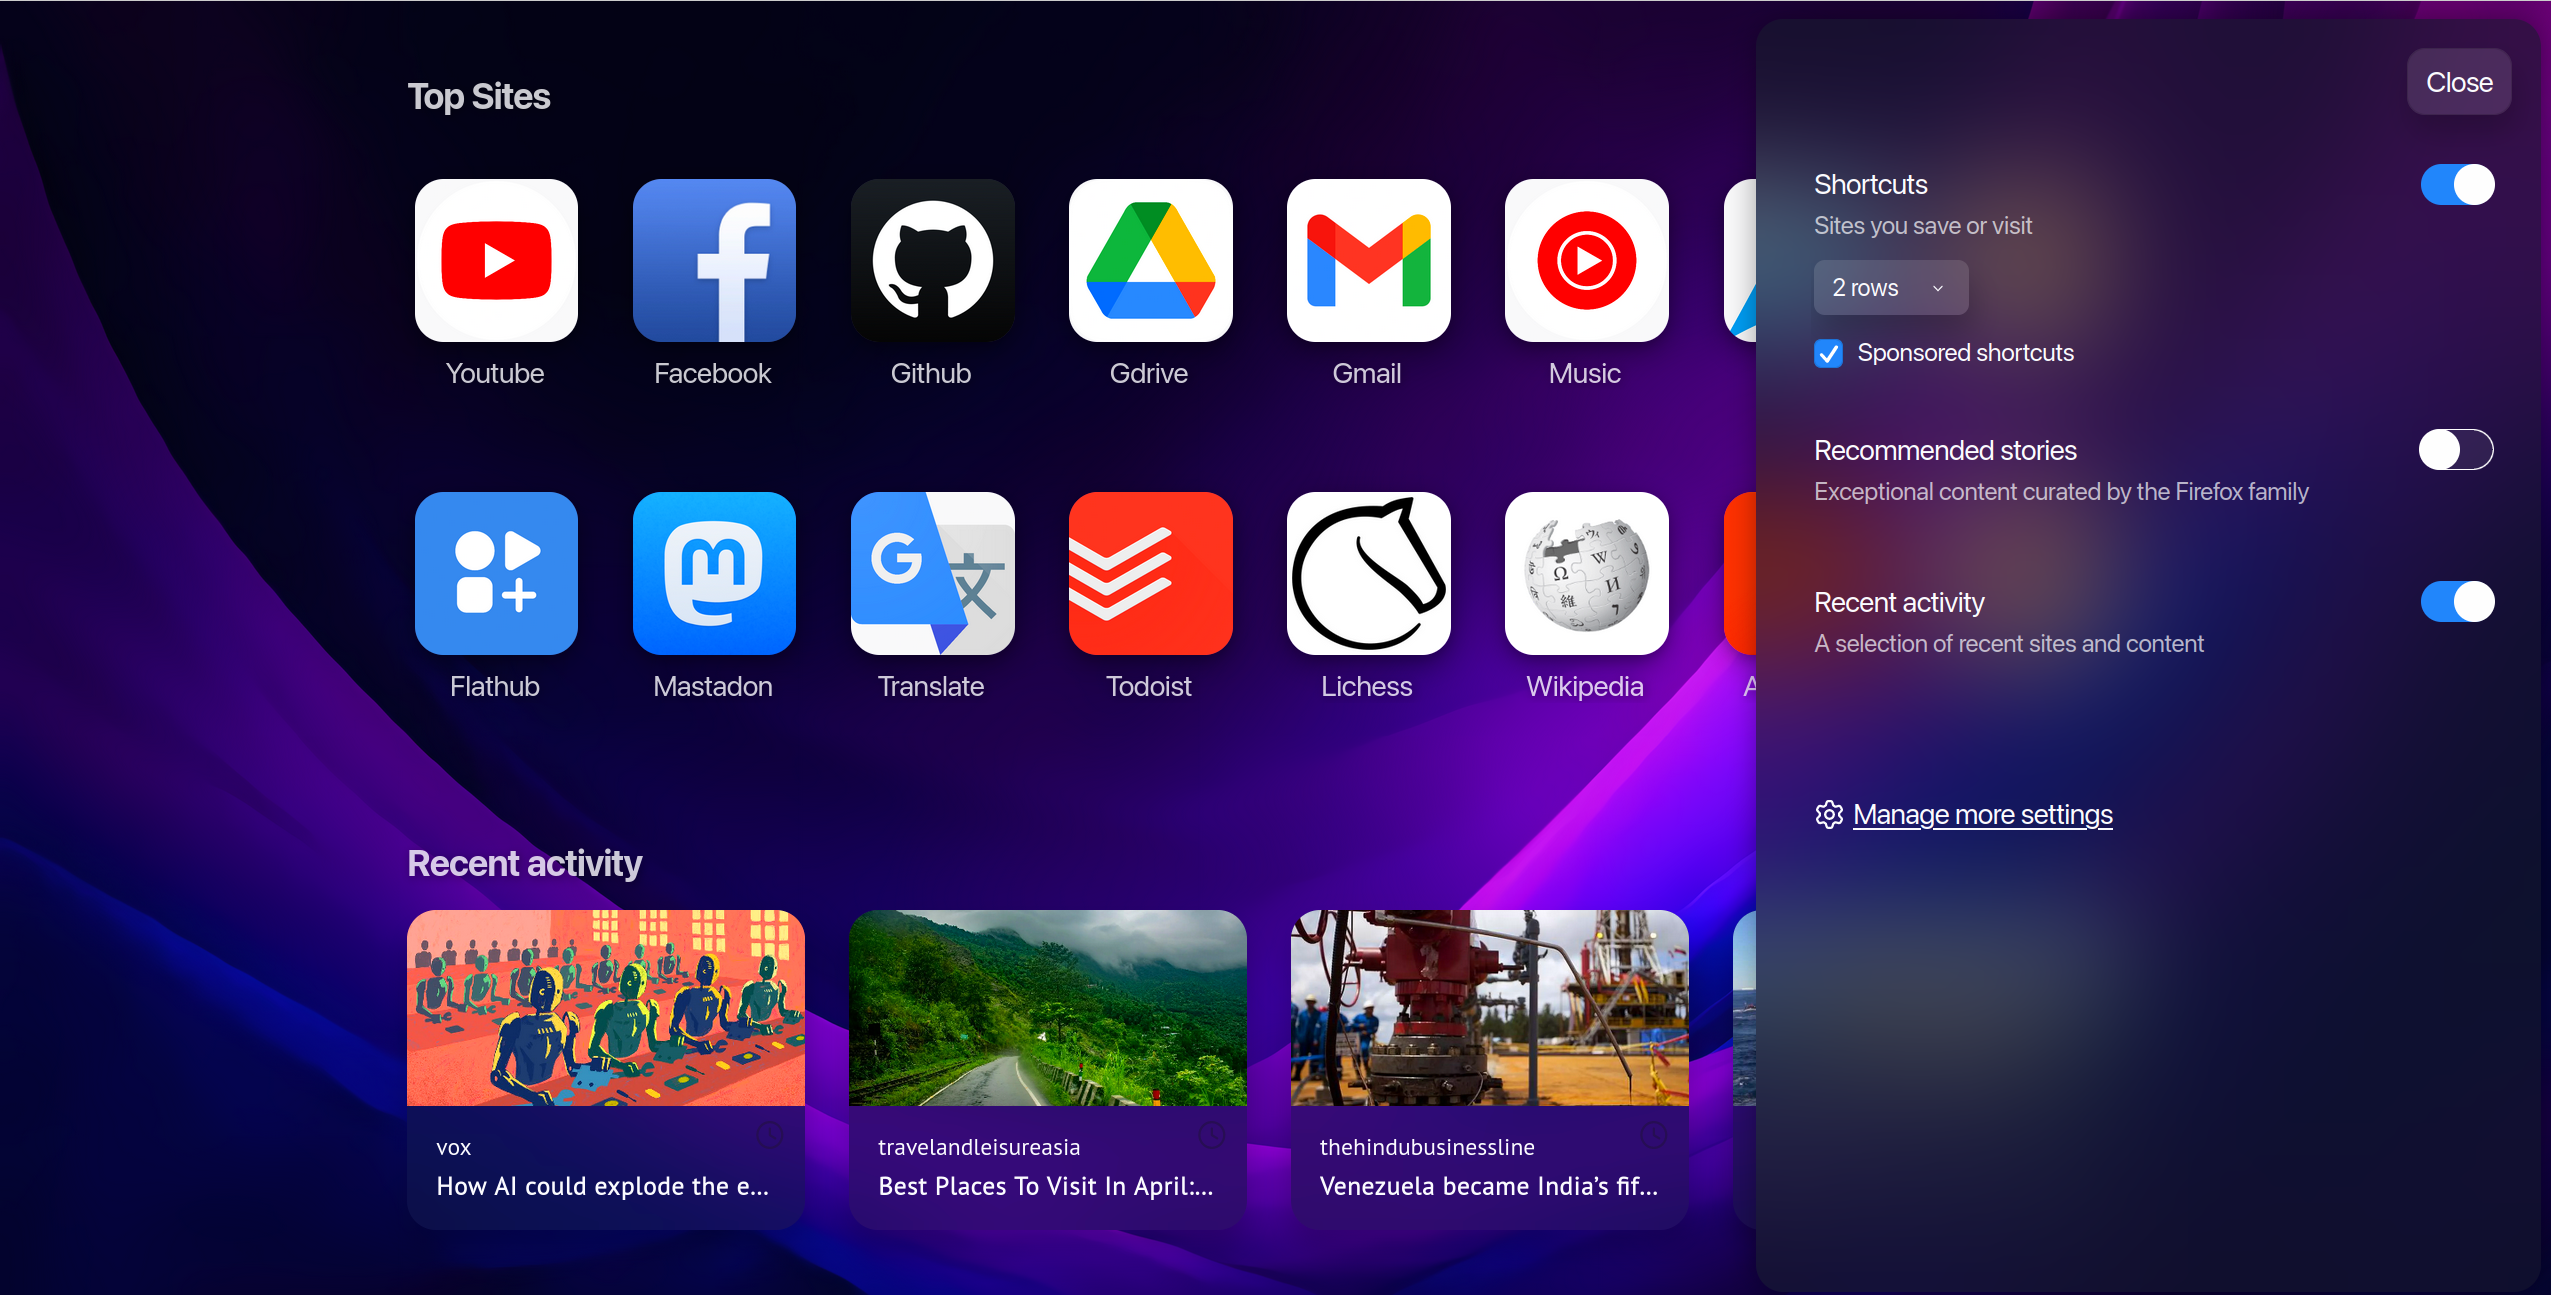
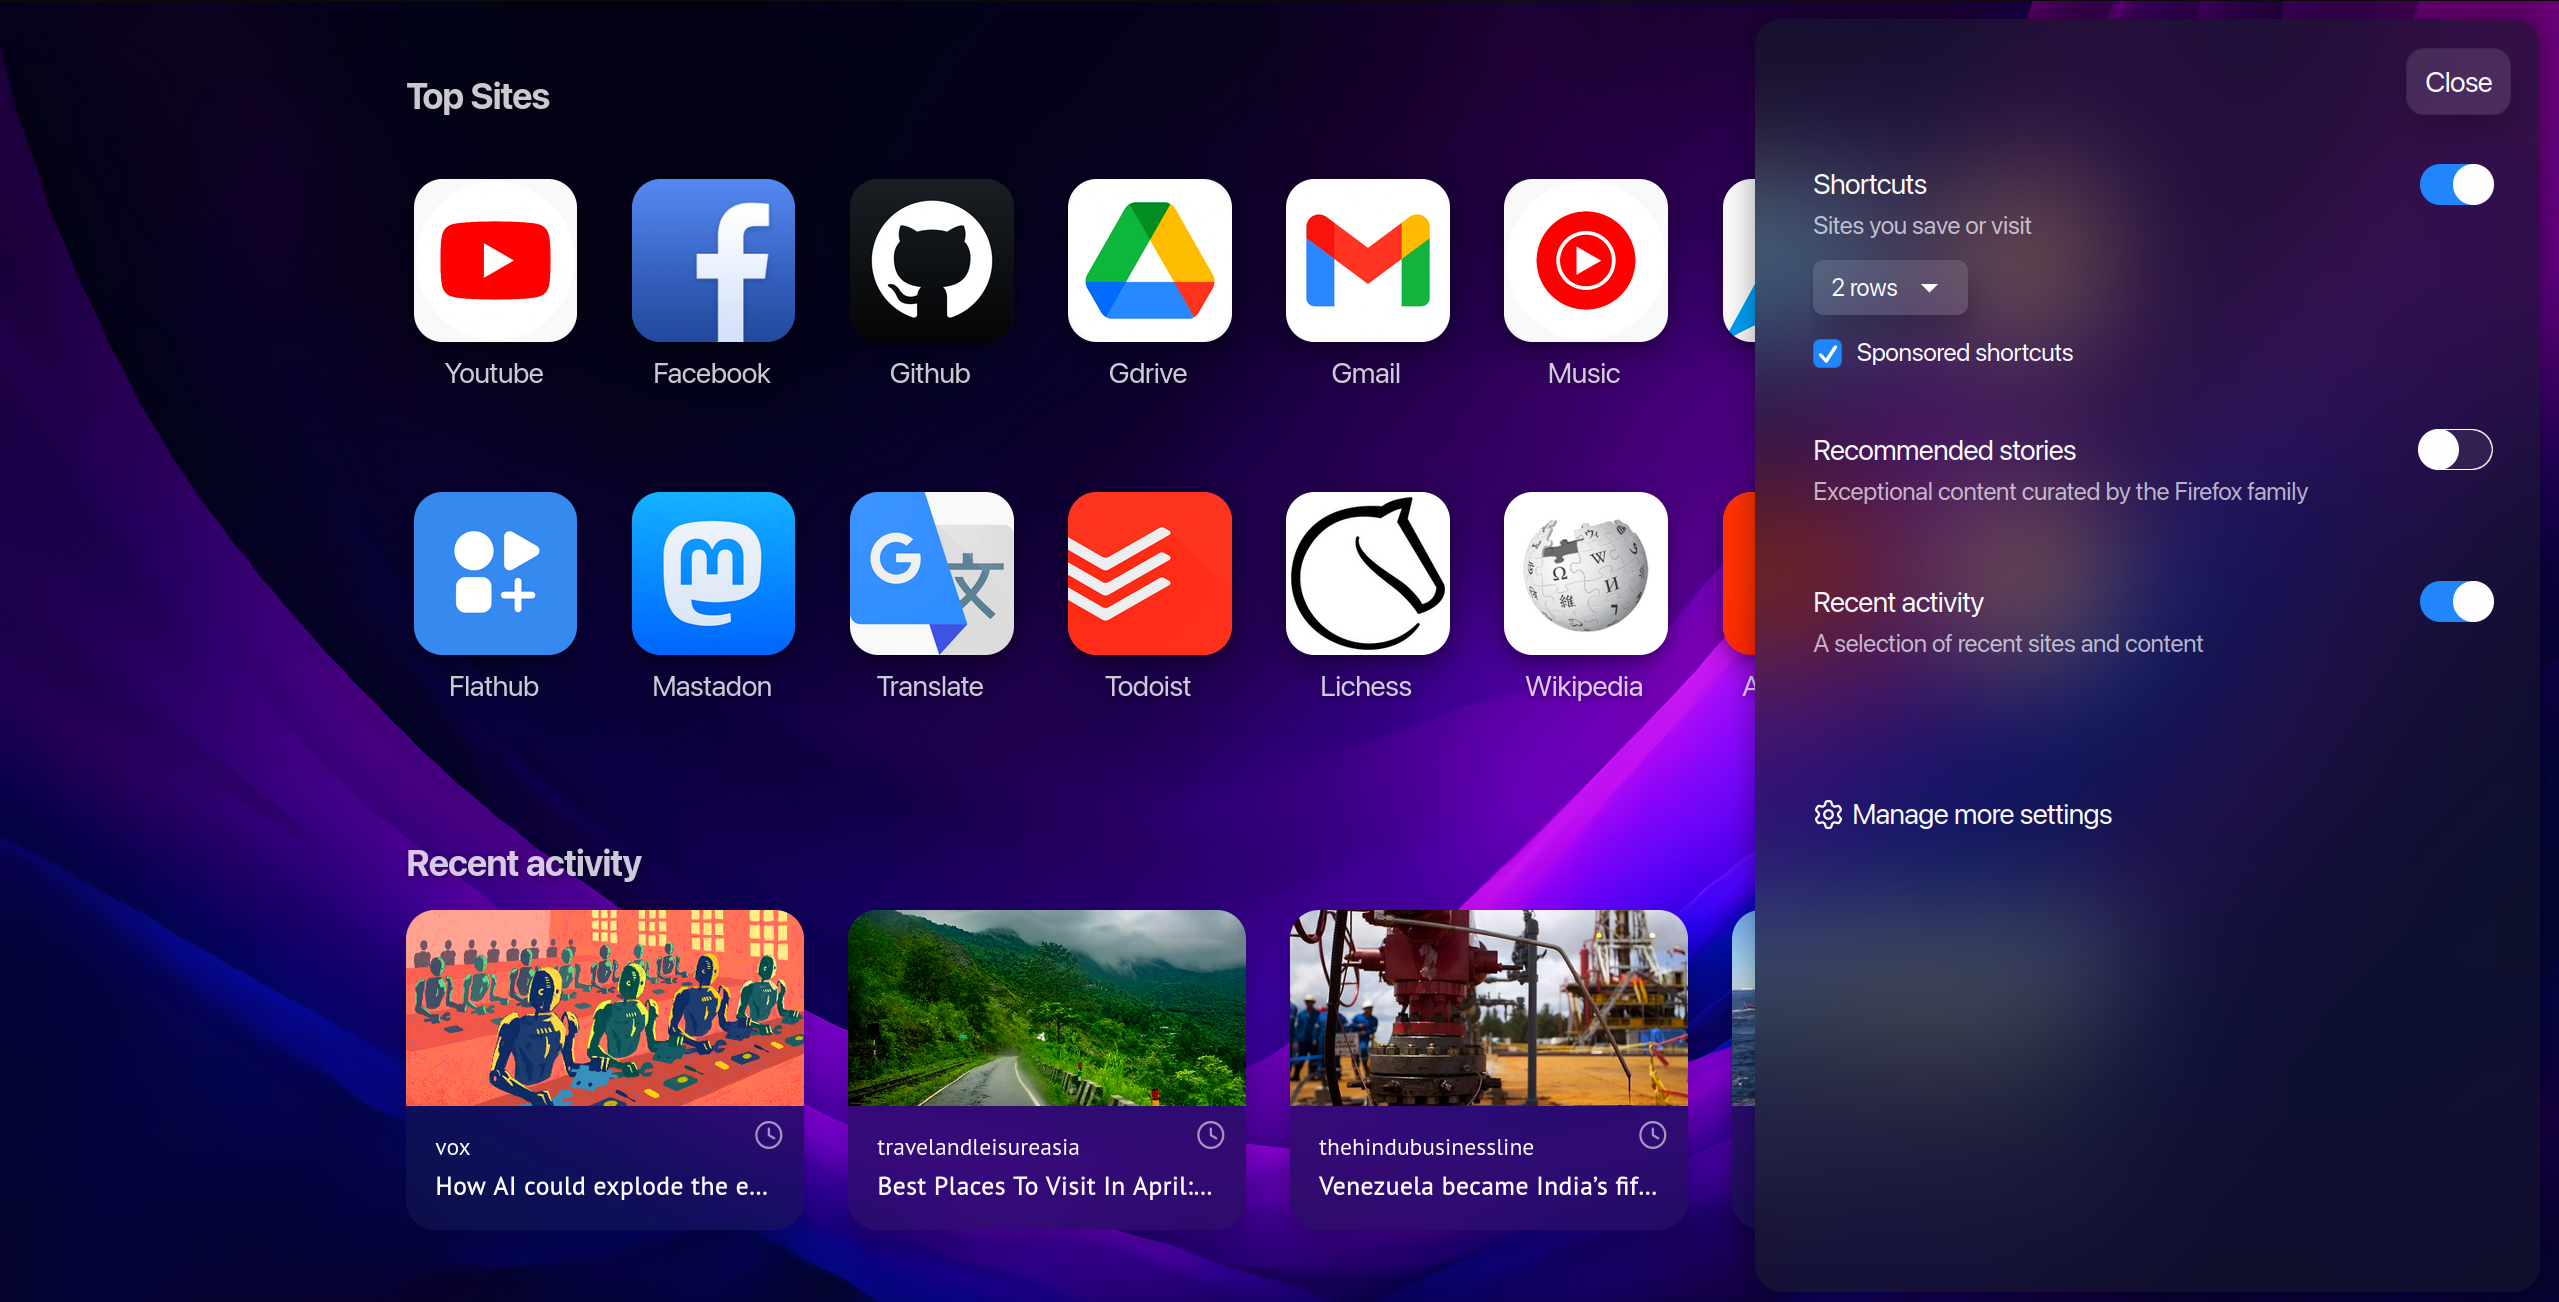
newtab

diff --git a/new_tab.css b/new_tab.css
@@ -202,7 +202,14 @@ button, input {
 .home-section .section .selector {
   border: none !important;
   box-shadow: 3px 10px 15px rgb(0 0 0 / 20%) !important;
+  background: url("icons/down.svg") right no-repeat !important;
+  background-origin: content-box !important;
 }
+
+.home-section .external-link {
+  text-decoration: none !important;
+}
+
 
 .toggle-button {
   transform: scale(1.4) !important;
@@ -463,7 +470,7 @@ body:not(.inline-onboarding) .fixed-search .search-wrapper {
     }
     
 .compact-cards .card-outer .card-context>.card-context-icon {
-    fill: var(--newtab-wordmark-color) !important;
+    fill: var(--newtab-text-primary-color) !important;
     opacity: 0.7 !important;
     /*filter: drop-shadow( 0px 1px 0px var(--contrast-color)) !important;*/
     }

diff --git a/new_tab_white.css b/new_tab_white.css
@@ -226,6 +226,12 @@ button, input {
 .home-section .section .selector {
   border: none !important;
   box-shadow: 3px 10px 15px rgb(0 0 0 / 20%) !important;
+  background: url("icons/down-light.svg") right no-repeat !important;
+  background-origin: content-box !important;
+}
+
+.home-section .external-link {
+  text-decoration: none !important;
 }
 
 .toggle-button {
@@ -501,7 +507,7 @@ body:not(.inline-onboarding) .fixed-search .search-wrapper {
     }
     
 .compact-cards .card-outer .card-context>.card-context-icon {
-    fill: var(--newtab-wordmark-color) !important;
+    fill: var(--newtab-text-primary-color) !important;
     opacity: 0.7 !important;
     /*filter: drop-shadow( 0px 1px 0px var(--contrast-color)) !important;*/
     }
